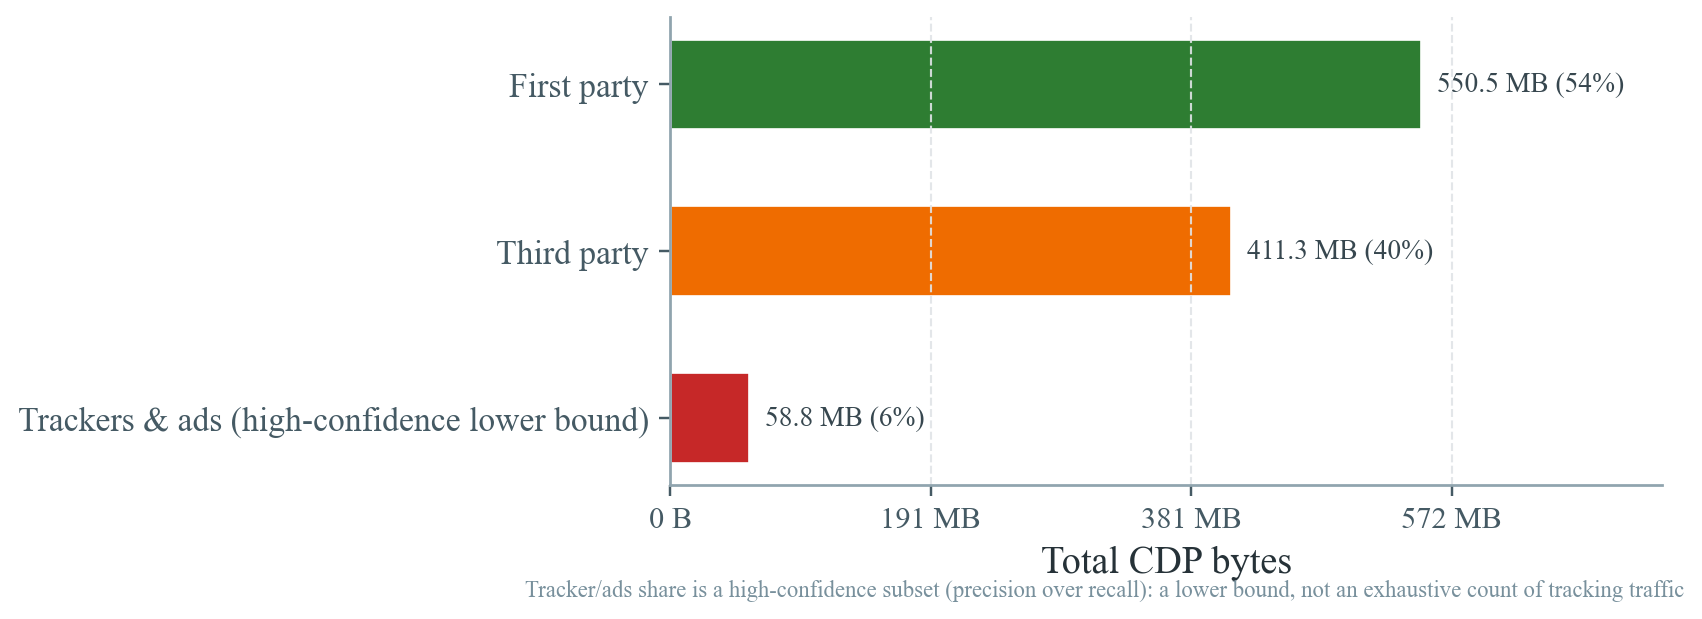
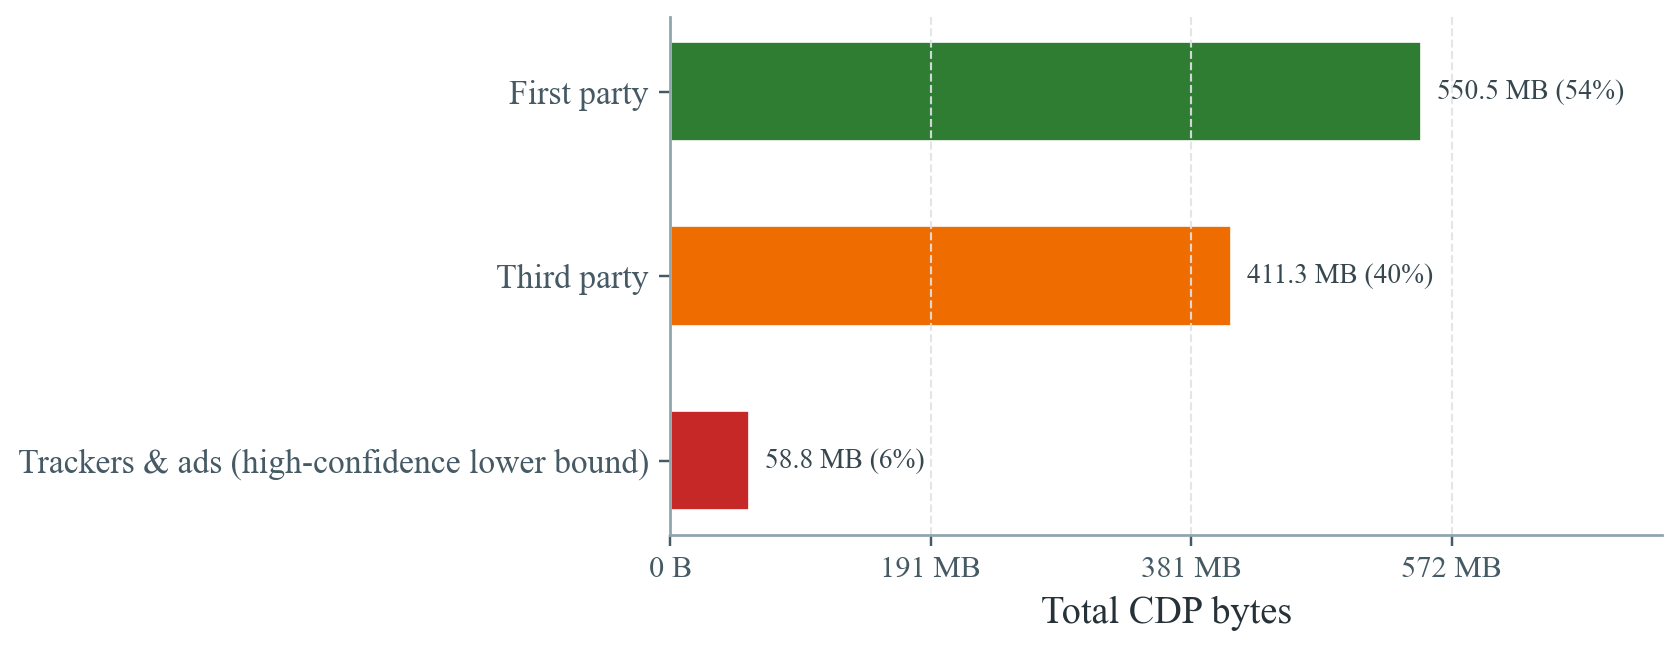
regenerate figures per thesis supervisor feedback: split combined DNS bytes/CO2 figure into two, add cold-start vs amortized comparison figure, move in-figure footnotes into captions, fix remaining axis-label clipping

Changed region(s): [[0.0, 0.0307, 0.9905, 0.9822]]

diff --git a/src/run_analysis.py b/src/run_analysis.py
@@ -458,10 +458,10 @@ def _annotate_log_bars(ax, bars, values, formatter=_format_bytes):
         )
 
 
-def _plot_dns_protocol_comparison(path: Path, dns_summary: list[dict[str, Any]]) -> bool:
-    """Two-panel figure: median bytes per resolution (log scale) next to
-    median CO2 per resolution, so the two bar charts share one figure and
-    one caption instead of two nearly identical ones."""
+def _plot_dns_bytes_by_protocol(path: Path, dns_summary: list[dict[str, Any]]) -> bool:
+    """Median bytes per resolution, by protocol (log scale). Split out from
+    what used to be one two-panel figure, so this and the CO2 counterpart
+    below can each get their own caption as subfigures in the thesis."""
     if not dns_summary:
         return False
 
@@ -472,25 +472,24 @@ def _plot_dns_protocol_comparison(path: Path, dns_summary: list[dict[str, Any]])
 
     labels = [_protocol_label(row["protocol"]) for row in dns_summary]
     byte_values = [row["median_bytes"] for row in dns_summary]
-    co2_values = [row["median_co2_kg"] for row in dns_summary]
     colors = [PROTOCOL_COLORS.get(row["protocol"], "#455A64") for row in dns_summary]
 
-    fig, (ax_bytes, ax_co2) = plt.subplots(1, 2, figsize=(6.6, 3.4))
+    fig, ax = plt.subplots(figsize=(3.6, 3.4))
 
-    bars = ax_bytes.bar(labels, byte_values, color=colors, width=0.58, edgecolor="white", linewidth=1.2)
-    ax_bytes.set_ylabel("Bytes per resolution (median)")
-    ax_bytes.set_yscale("log")
-    ax_bytes.grid(axis="y", linestyle="--", alpha=0.9)
-    ax_bytes.spines["top"].set_visible(False)
-    ax_bytes.spines["right"].set_visible(False)
-    _annotate_log_bars(ax_bytes, bars, byte_values)
+    bars = ax.bar(labels, byte_values, color=colors, width=0.58, edgecolor="white", linewidth=1.2)
+    ax.set_ylabel("Bytes per resolution (median)")
+    ax.set_yscale("log")
+    ax.grid(axis="y", linestyle="--", alpha=0.9)
+    ax.spines["top"].set_visible(False)
+    ax.spines["right"].set_visible(False)
+    _annotate_log_bars(ax, bars, byte_values)
     if len(byte_values) >= 2 and byte_values[0] > 0:
         ratio = byte_values[1] / byte_values[0]
-        ax_bytes.text(
+        ax.text(
             0.03,
             0.97,
             f"DoH ≈ {ratio:.0f}× classic DNS",
-            transform=ax_bytes.transAxes,
+            transform=ax.transAxes,
             ha="left",
             va="top",
             fontsize=9,
@@ -498,25 +497,91 @@ def _plot_dns_protocol_comparison(path: Path, dns_summary: list[dict[str, Any]])
             bbox={"boxstyle": "round,pad=0.35", "facecolor": "#ECEFF1", "edgecolor": "none"},
         )
 
-    co2_bars = ax_co2.bar(labels, co2_values, color=colors, width=0.58, edgecolor="white", linewidth=1.2)
-    ax_co2.set_ylabel("kg CO$_2$e (5 repetitions, median)")
-    ax_co2.grid(axis="y", linestyle="--", alpha=0.9)
-    ax_co2.spines["top"].set_visible(False)
-    ax_co2.spines["right"].set_visible(False)
+    fig.subplots_adjust(top=0.94, bottom=0.16)
+    _save_figure(plt, path)
+    return True
+
+
+def _plot_dns_co2_by_protocol(path: Path, dns_summary: list[dict[str, Any]]) -> bool:
+    """Median CO2 per resolution, by protocol - same energy/CO2 model used
+    throughout the run (Chapter 3). Counterpart to the bytes plot above."""
+    if not dns_summary:
+        return False
+
+    try:
+        plt = _setup_matplotlib(path.parent)
+    except ImportError:
+        return False
+
+    labels = [_protocol_label(row["protocol"]) for row in dns_summary]
+    co2_values = [row["median_co2_kg"] for row in dns_summary]
+    colors = [PROTOCOL_COLORS.get(row["protocol"], "#455A64") for row in dns_summary]
+
+    fig, ax = plt.subplots(figsize=(3.6, 3.4))
+
+    co2_bars = ax.bar(labels, co2_values, color=colors, width=0.58, edgecolor="white", linewidth=1.2)
+    ax.set_ylabel("kg CO$_2$e (5 repetitions, median)")
+    ax.grid(axis="y", linestyle="--", alpha=0.9)
+    ax.spines["top"].set_visible(False)
+    ax.spines["right"].set_visible(False)
     for bar, value in zip(co2_bars, co2_values):
-        ax_co2.text(
+        ax.text(
             bar.get_x() + bar.get_width() / 2, bar.get_height(), f"{value:.2e}",
             ha="center", va="bottom", fontsize=9, color="#37474F",
         )
 
-    fig.subplots_adjust(top=0.94, bottom=0.16, wspace=0.32)
-    fig.text(
-        0.02,
-        0.03,
-        "Log scale (left) · same energy/CO2 model as the rest of the run (right)",
-        fontsize=8,
-        color="#78909C",
-    )
+    fig.subplots_adjust(top=0.94, bottom=0.16)
+    _save_figure(plt, path)
+    return True
+
+
+def _plot_connection_reuse_comparison(path: Path, dns_summary_by_mode: dict[str, list[dict[str, Any]]]) -> bool:
+    """Cold-start vs. amortized overhead-vs-DNS ratio, for DoH and DoQ side
+    by side. DNS itself is left out: it has no connection to reuse, so its
+    ratio is always 1x in both modes and would just be a flat line."""
+    cold = {row["protocol"]: row for row in dns_summary_by_mode.get("cold_start", [])}
+    warm = {row["protocol"]: row for row in dns_summary_by_mode.get("amortized", [])}
+    protocols = [p for p in ("doh", "doq") if p in cold and p in warm]
+    if not protocols:
+        return False
+
+    try:
+        plt = _setup_matplotlib(path.parent)
+    except ImportError:
+        return False
+
+    dns_cold = cold.get("dns", {}).get("median_bytes")
+    dns_warm = warm.get("dns", {}).get("median_bytes")
+    if not dns_cold or not dns_warm:
+        return False
+
+    cold_ratios = [cold[p]["median_bytes"] / dns_cold for p in protocols]
+    warm_ratios = [warm[p]["median_bytes"] / dns_warm for p in protocols]
+    labels = [_protocol_label(p) for p in protocols]
+
+    x = range(len(protocols))
+    width = 0.32
+    fig, ax = plt.subplots(figsize=(4.4, 3.4))
+    bars_cold = ax.bar([i - width / 2 for i in x], cold_ratios, width, label="Cold start", color="#C62828")
+    bars_warm = ax.bar([i + width / 2 for i in x], warm_ratios, width, label="Amortized", color="#2E7D32")
+
+    for bars in (bars_cold, bars_warm):
+        for bar, value in zip(bars, [b.get_height() for b in bars]):
+            ax.text(
+                bar.get_x() + bar.get_width() / 2, bar.get_height(), f"{value:.1f}×",
+                ha="center", va="bottom", fontsize=9, color="#37474F",
+            )
+
+    ax.set_xticks(list(x))
+    ax.set_xticklabels(labels)
+    ax.set_ylabel("Overhead vs. classic DNS")
+    ax.legend(frameon=False, loc="upper center", bbox_to_anchor=(0.5, -0.12), ncol=2, fontsize=9)
+    ax.grid(axis="y", linestyle="--", alpha=0.9)
+    ax.spines["top"].set_visible(False)
+    ax.spines["right"].set_visible(False)
+    ax.margins(y=0.18)
+
+    fig.subplots_adjust(top=0.94, bottom=0.24)
     _save_figure(plt, path)
     return True
 
@@ -564,14 +629,10 @@ def _plot_overhead_breakdown(path: Path, dns_summary: list[dict[str, Any]]) -> b
     ax.spines["right"].set_visible(False)
     ax.margins(y=0.12)
 
-    fig.subplots_adjust(top=0.92, bottom=0.32)
-    fig.text(
-        0.02, 0.02,
-        "Decrypted with saved TLS/QUIC session keys · DoQ short-header bytes mix\n"
-        "real response data with a small, undistinguished share of 1-RTT ACKs",
-        fontsize=7.5, color="#78909C",
-    )
-    _save_figure(plt, path)
+    fig.subplots_adjust(top=0.92, bottom=0.22)
+    # Same rotated-ylabel clipping issue as the CO2-by-category plot: give it
+    # extra padding instead of letting bbox_inches="tight" crop it.
+    _save_figure(plt, path, pad_inches=0.2)
     return True
 
 
@@ -876,8 +937,6 @@ def _plot_cfp_by_category(path: Path, web_category_summary: list[dict[str, Any]]
             fontsize=8,
             color="#37474F",
         )
-    fig.text(0.02, 0.02, "Error bars show the interquartile range (IQR)", fontsize=7.5, color="#78909C")
-
     fig.subplots_adjust(left=0.17, bottom=0.22, top=0.9)
     # This plot's rotated, mathtext y-axis label ("...kg CO$_2$e)") needs more
     # top padding than the default: bbox_inches="tight" underestimates its
@@ -943,13 +1002,7 @@ def _plot_origin_distribution(path: Path, origin_summary: list[dict[str, Any]]) 
             color="#37474F",
         )
 
-    fig.text(
-        0.02, 0.02,
-        "Tracker/ads share is a high-confidence subset (precision over recall): "
-        "a lower bound, not an exhaustive count of tracking traffic",
-        fontsize=7.5, color="#78909C",
-    )
-    fig.subplots_adjust(left=0.14, right=0.96, top=0.96, bottom=0.2)
+    fig.subplots_adjust(left=0.14, right=0.96, top=0.96, bottom=0.12)
     _save_figure(plt, path)
     return True
 
@@ -1702,15 +1755,27 @@ def analyze_run(run_dir: str | Path):
 
     plot_specs = [
         (
-            "fig_dns_avg_bytes.png",
-            lambda: _plot_dns_protocol_comparison(
-                analysis_dir / "fig_dns_avg_bytes.png", dns_summary
+            "fig_dns_bytes_by_protocol.png",
+            lambda: _plot_dns_bytes_by_protocol(
+                analysis_dir / "fig_dns_bytes_by_protocol.png", dns_summary
+            ),
+        ),
+        (
+            "fig_dns_co2_by_protocol.png",
+            lambda: _plot_dns_co2_by_protocol(
+                analysis_dir / "fig_dns_co2_by_protocol.png", dns_summary
             ),
         ),
         (
             "fig_overhead_breakdown.png",
             lambda: _plot_overhead_breakdown(
                 analysis_dir / "fig_overhead_breakdown.png", dns_summary
+            ),
+        ),
+        (
+            "fig_connection_reuse_comparison.png",
+            lambda: _plot_connection_reuse_comparison(
+                analysis_dir / "fig_connection_reuse_comparison.png", dns_summary_by_mode
             ),
         ),
         (

diff --git a/results/20260725_002327/analysis/summary.md b/results/20260725_002327/analysis/summary.md
@@ -319,8 +319,10 @@ Which kind of content drives page weight, complementing who served it (origin, a
 - `dns_privacy_cost_by_category_cold_start.csv`
 - `dns_privacy_cost_by_category_amortized.csv`
 - `dns_protocol_summary_amortized.csv`
-- `fig_dns_avg_bytes.png`
+- `fig_dns_bytes_by_protocol.png`
+- `fig_dns_co2_by_protocol.png`
 - `fig_overhead_breakdown.png`
+- `fig_connection_reuse_comparison.png`
 - `fig_burst_patterns.png`
 - `fig_web_overhead_scatter.png`
 - `fig_web_bytes_by_category.png`
